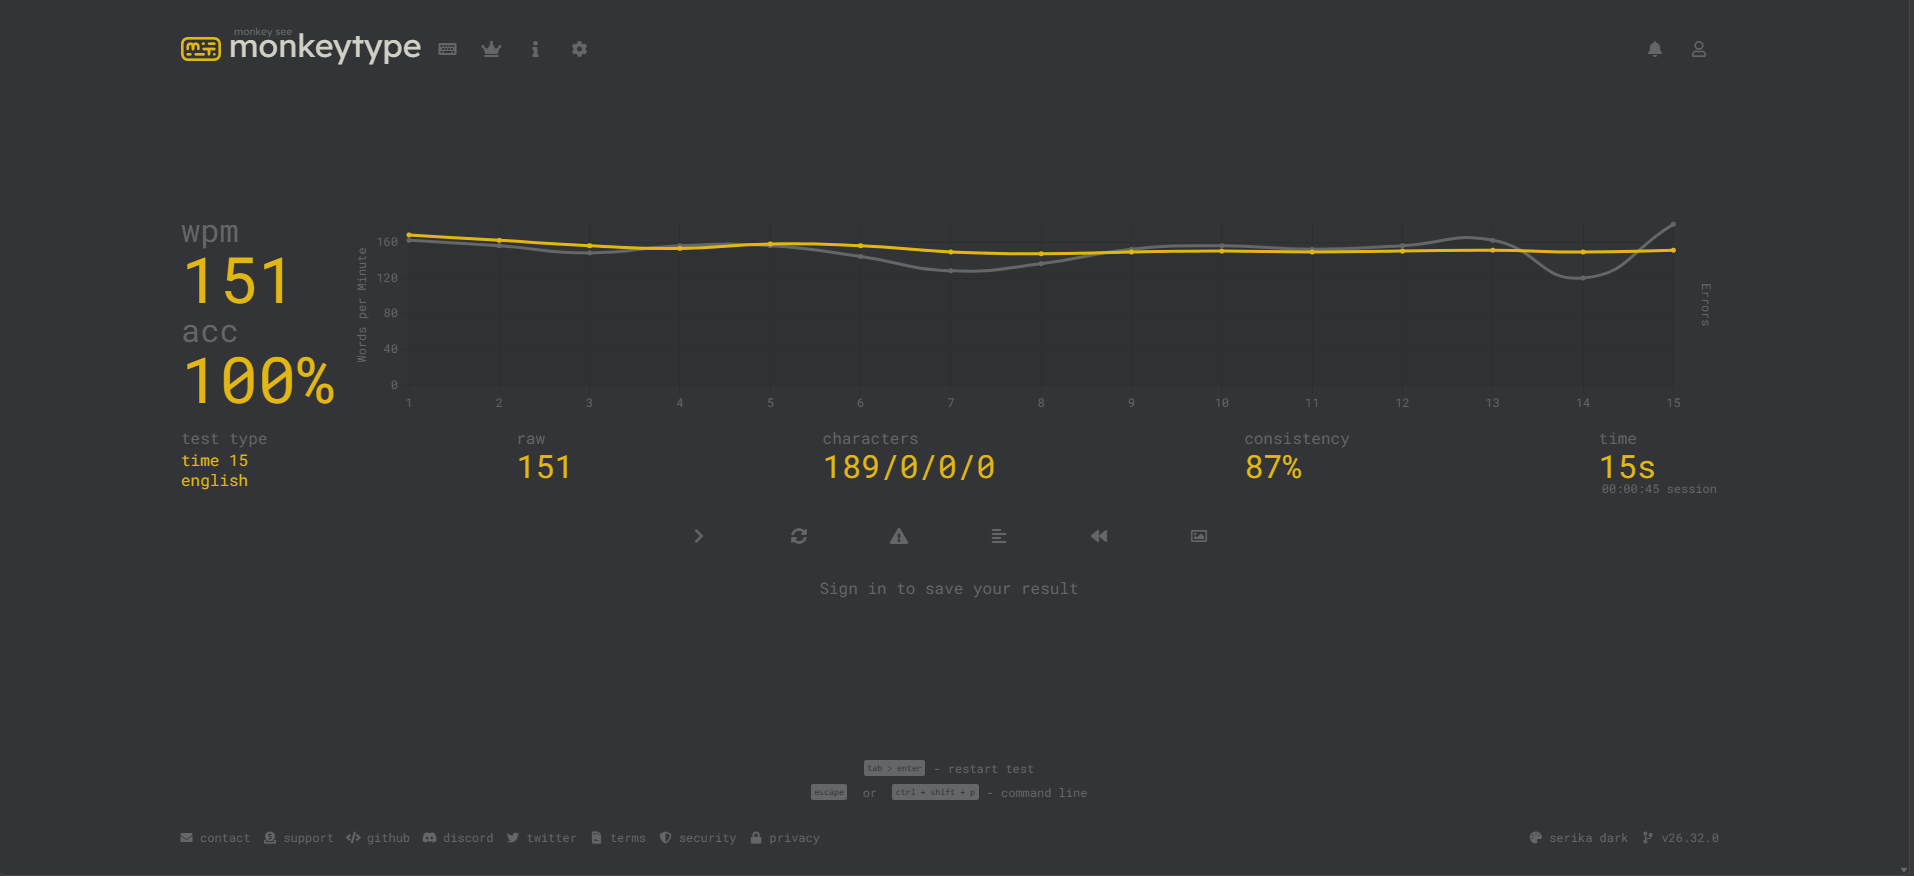
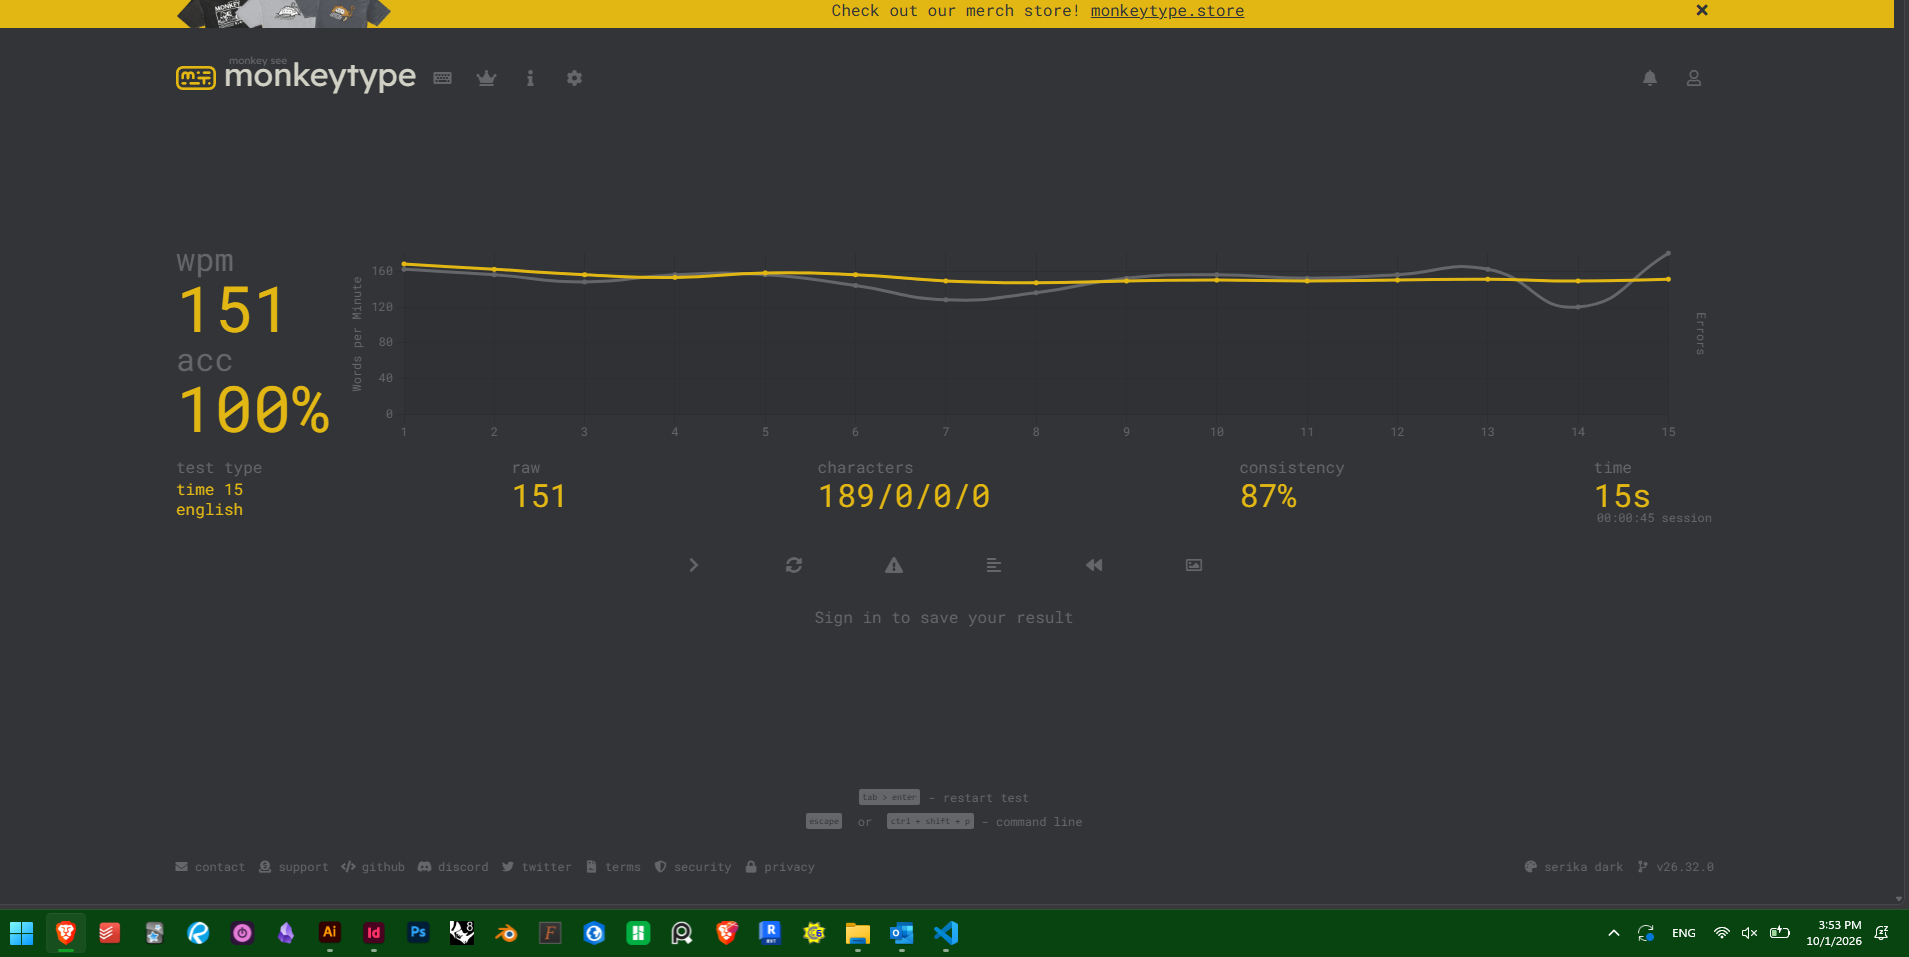
Descriptions for 3D asset links

diff --git a/links.html b/links.html
@@ -87,10 +87,10 @@
 					
 		<details open><summary>3D Assets</summary>
 			<ul>
-				<li><a href="https://polyhaven.com/">Poly Haven</a></li>
-				<li><a href="https://ambientcg.com/">ambientCG</a></li>	
-				<li><a href="https://sketchfab.com/">Sketchfab</a></li>	
-				<li><a href="https://www.cgtrader.com/">CGTrader</a></li>
+				<li><a href="https://polyhaven.com/">Poly Haven</a> - "The Public 3D Asset Library"</li>
+				<li><a href="https://ambientcg.com/">ambientCG</a> - "Free 3D Assets (Textures-focused)"</li>	
+				<li><a href="https://sketchfab.com/">Sketchfab</a> - Open marketplace that has a variety of free 3D models</li>	
+				<li><a href="https://www.cgtrader.com/">CGTrader</a> - "World's largest 3D model marketplace"</li>
 
 			</ul>
 			</details>
